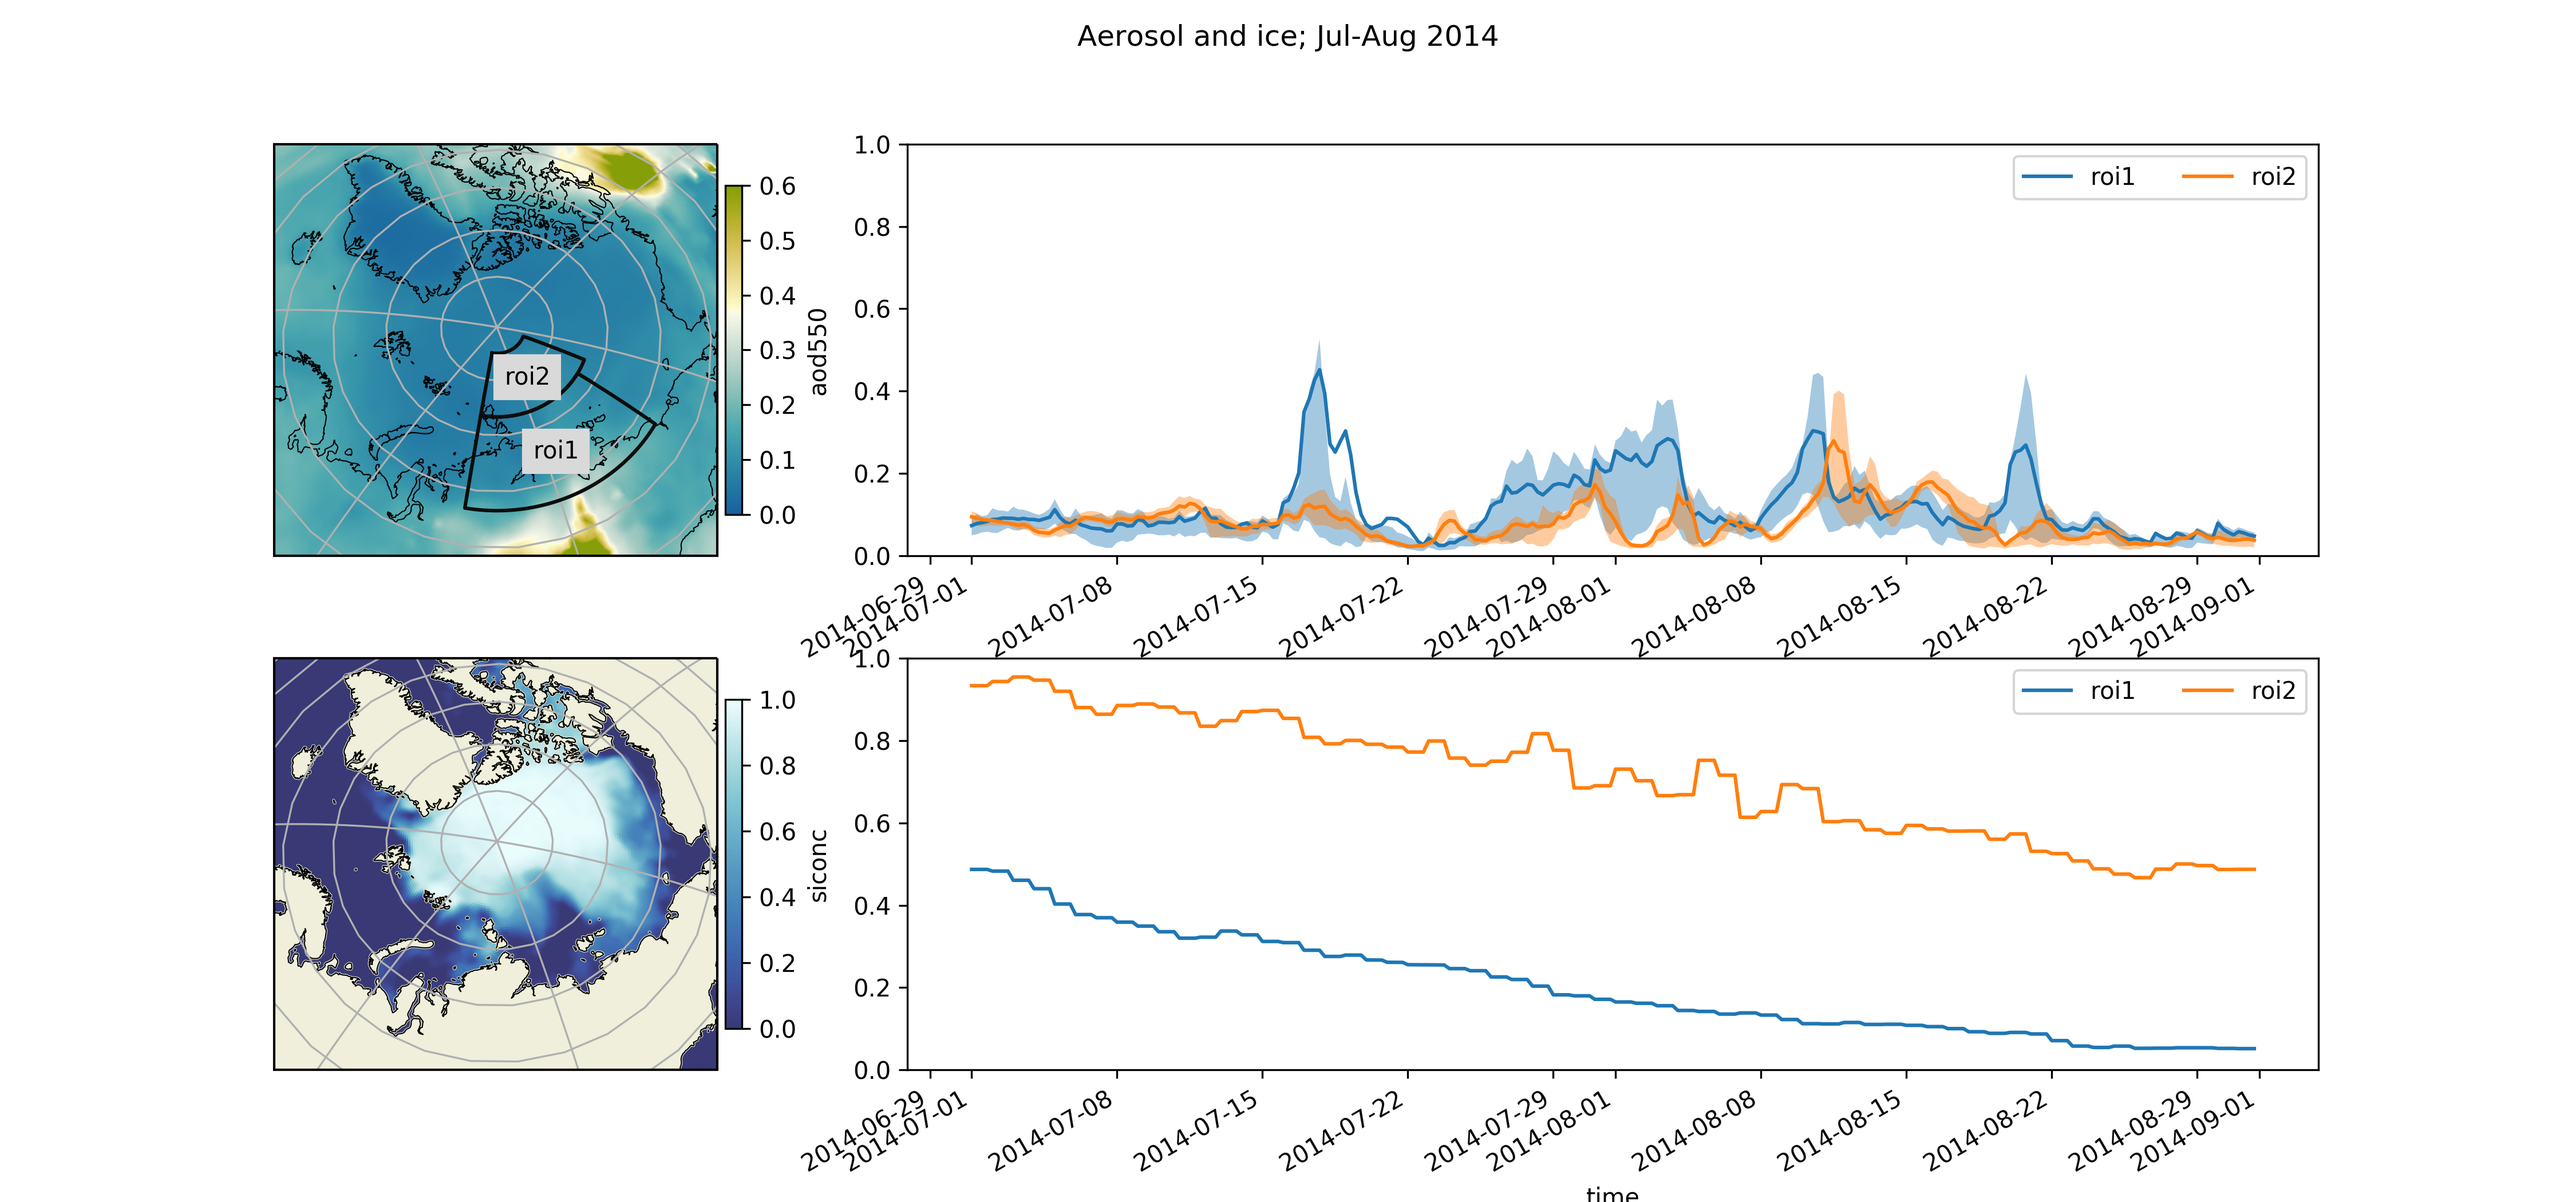
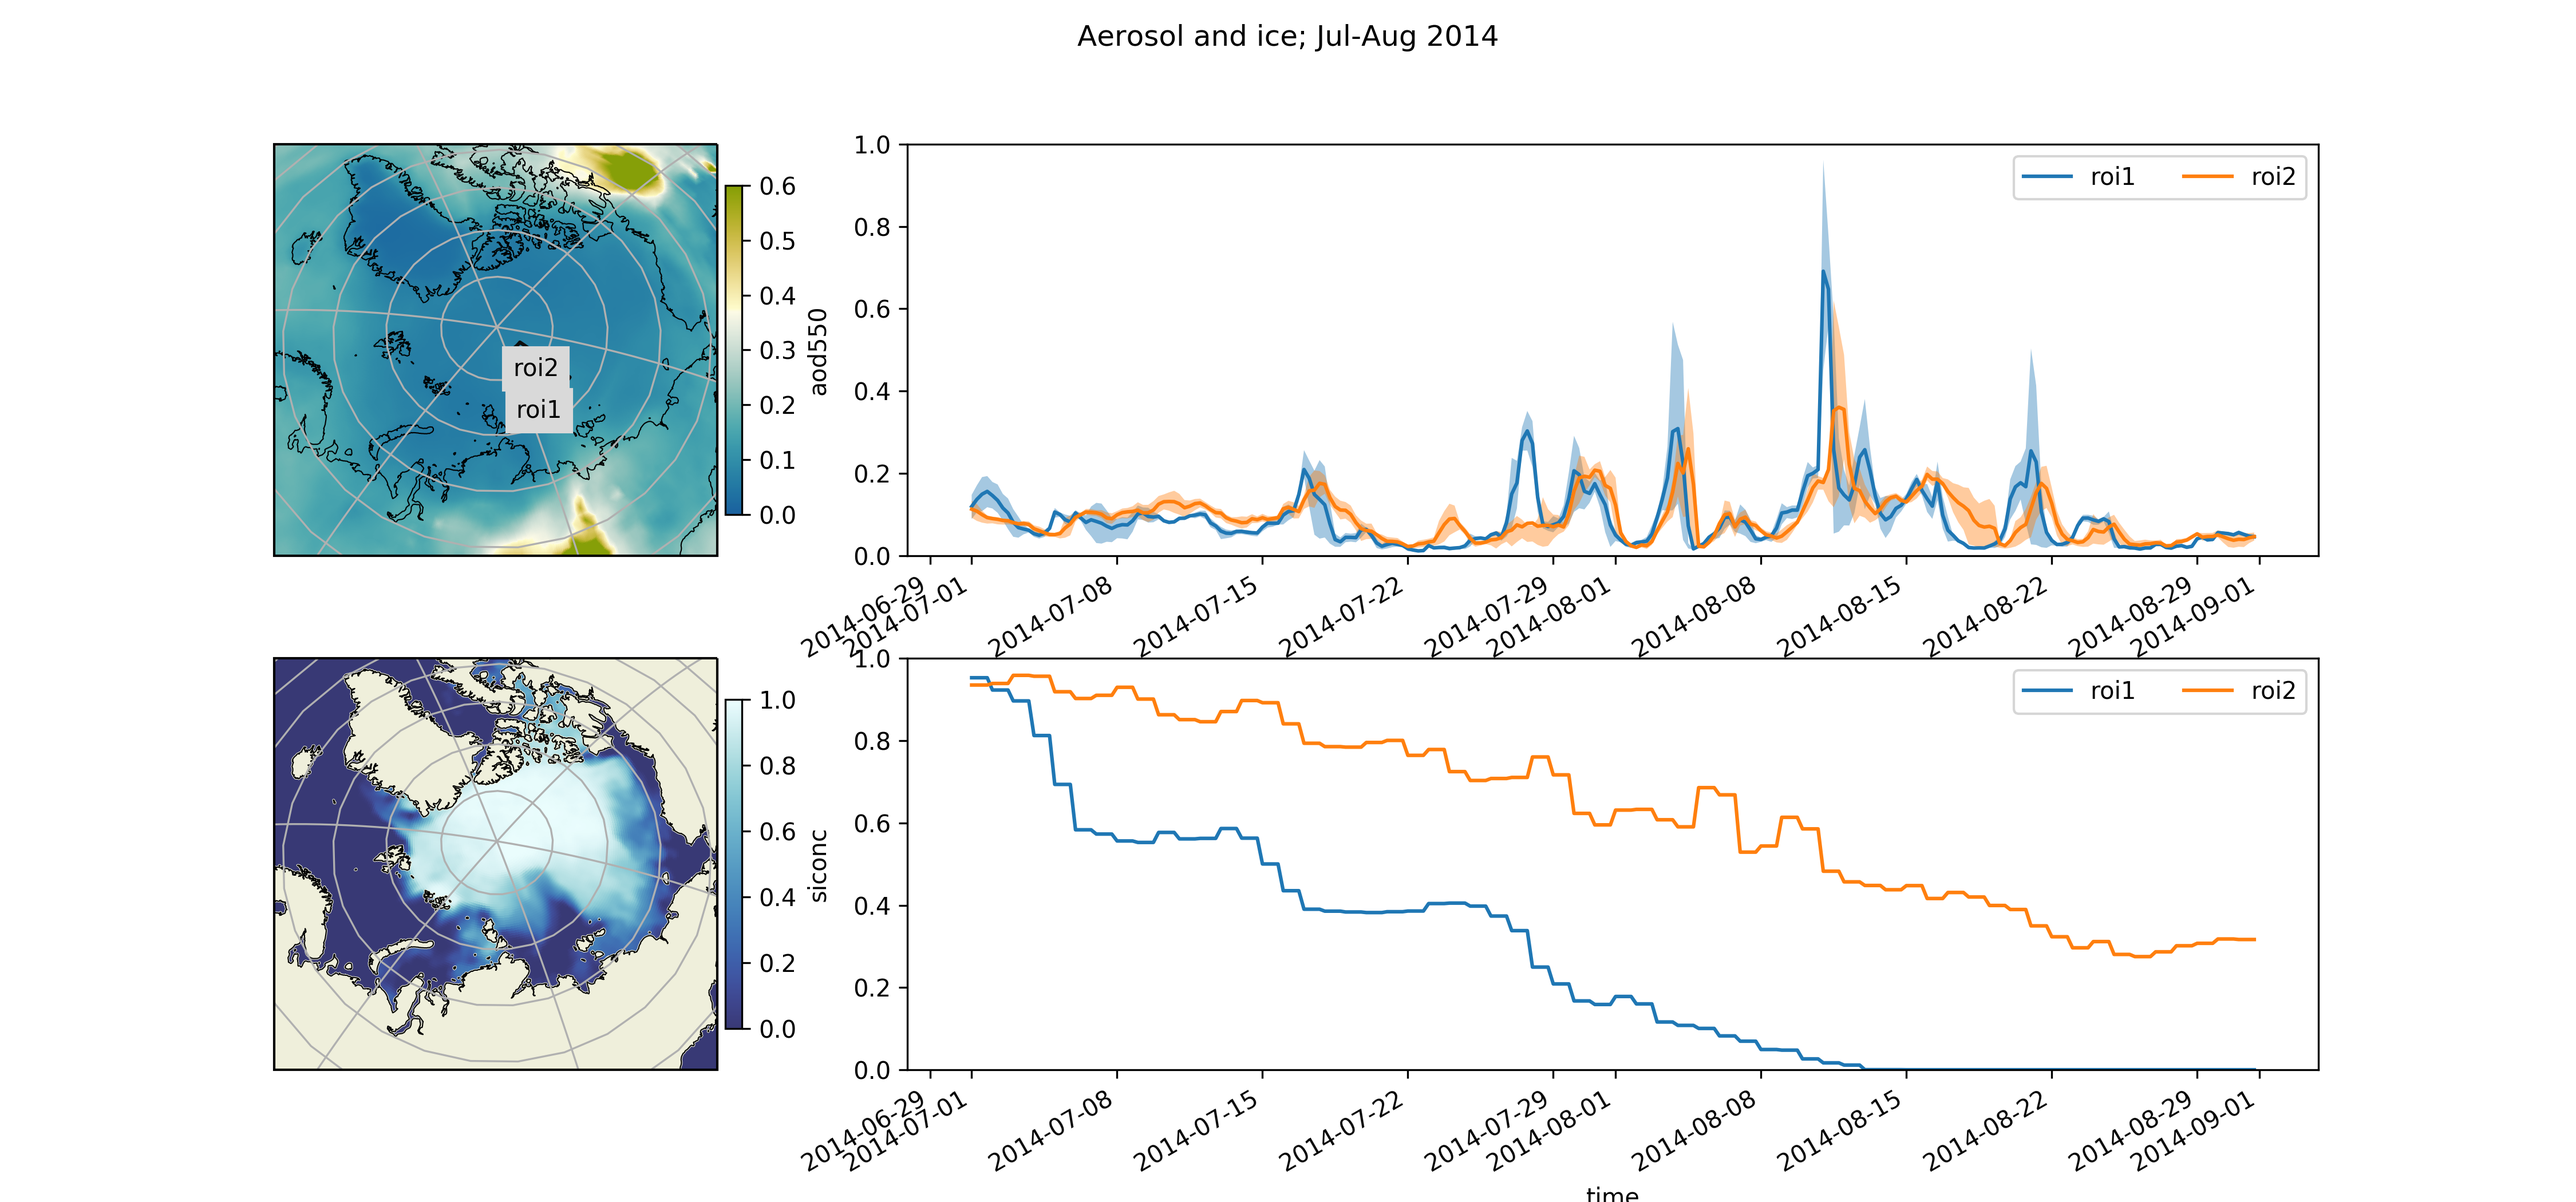
fix for HDF5 lib use

diff --git a/cams_visu/plot_cams.py b/cams_visu/plot_cams.py
@@ -33,7 +33,7 @@ caero = cm.tools.crop_by_percent(cmap, 20, which='max')
 year = 2014
 
 aspect_ratio = 1
-years = np.arange(2004, 2018)
+years = np.arange(2014, 2018)
 rows = len(years)
 fig_clima, axs_clima = plt.subplots(nrows=rows, ncols=3, figsize=(15, 4 * rows * aspect_ratio))
 
@@ -156,6 +156,8 @@ for idx, year in enumerate(years):
     # ----------------------------------
     lat_min1, lat_max1, lon_min1, lon_max1 = 70, 80, 90, 160
     lat_min2, lat_max2, lon_min2, lon_max2 = 80, 87, 90, 170
+    lat_min1, lat_max1, lon_min1, lon_max1 = 79, 80.4, 112, 140
+    lat_min2, lat_max2, lon_min2, lon_max2 = 80.45, 87, 128, 155
 
     roi1 = [[lon_min1, lat_min1], [lon_max1, lat_min1], [lon_max1, lat_max1], [lon_min1, lat_max1]]
     roi2 = [[lon_min2, lat_min2], [lon_max2, lat_min2], [lon_max2, lat_max2], [lon_min2, lat_max2]]
